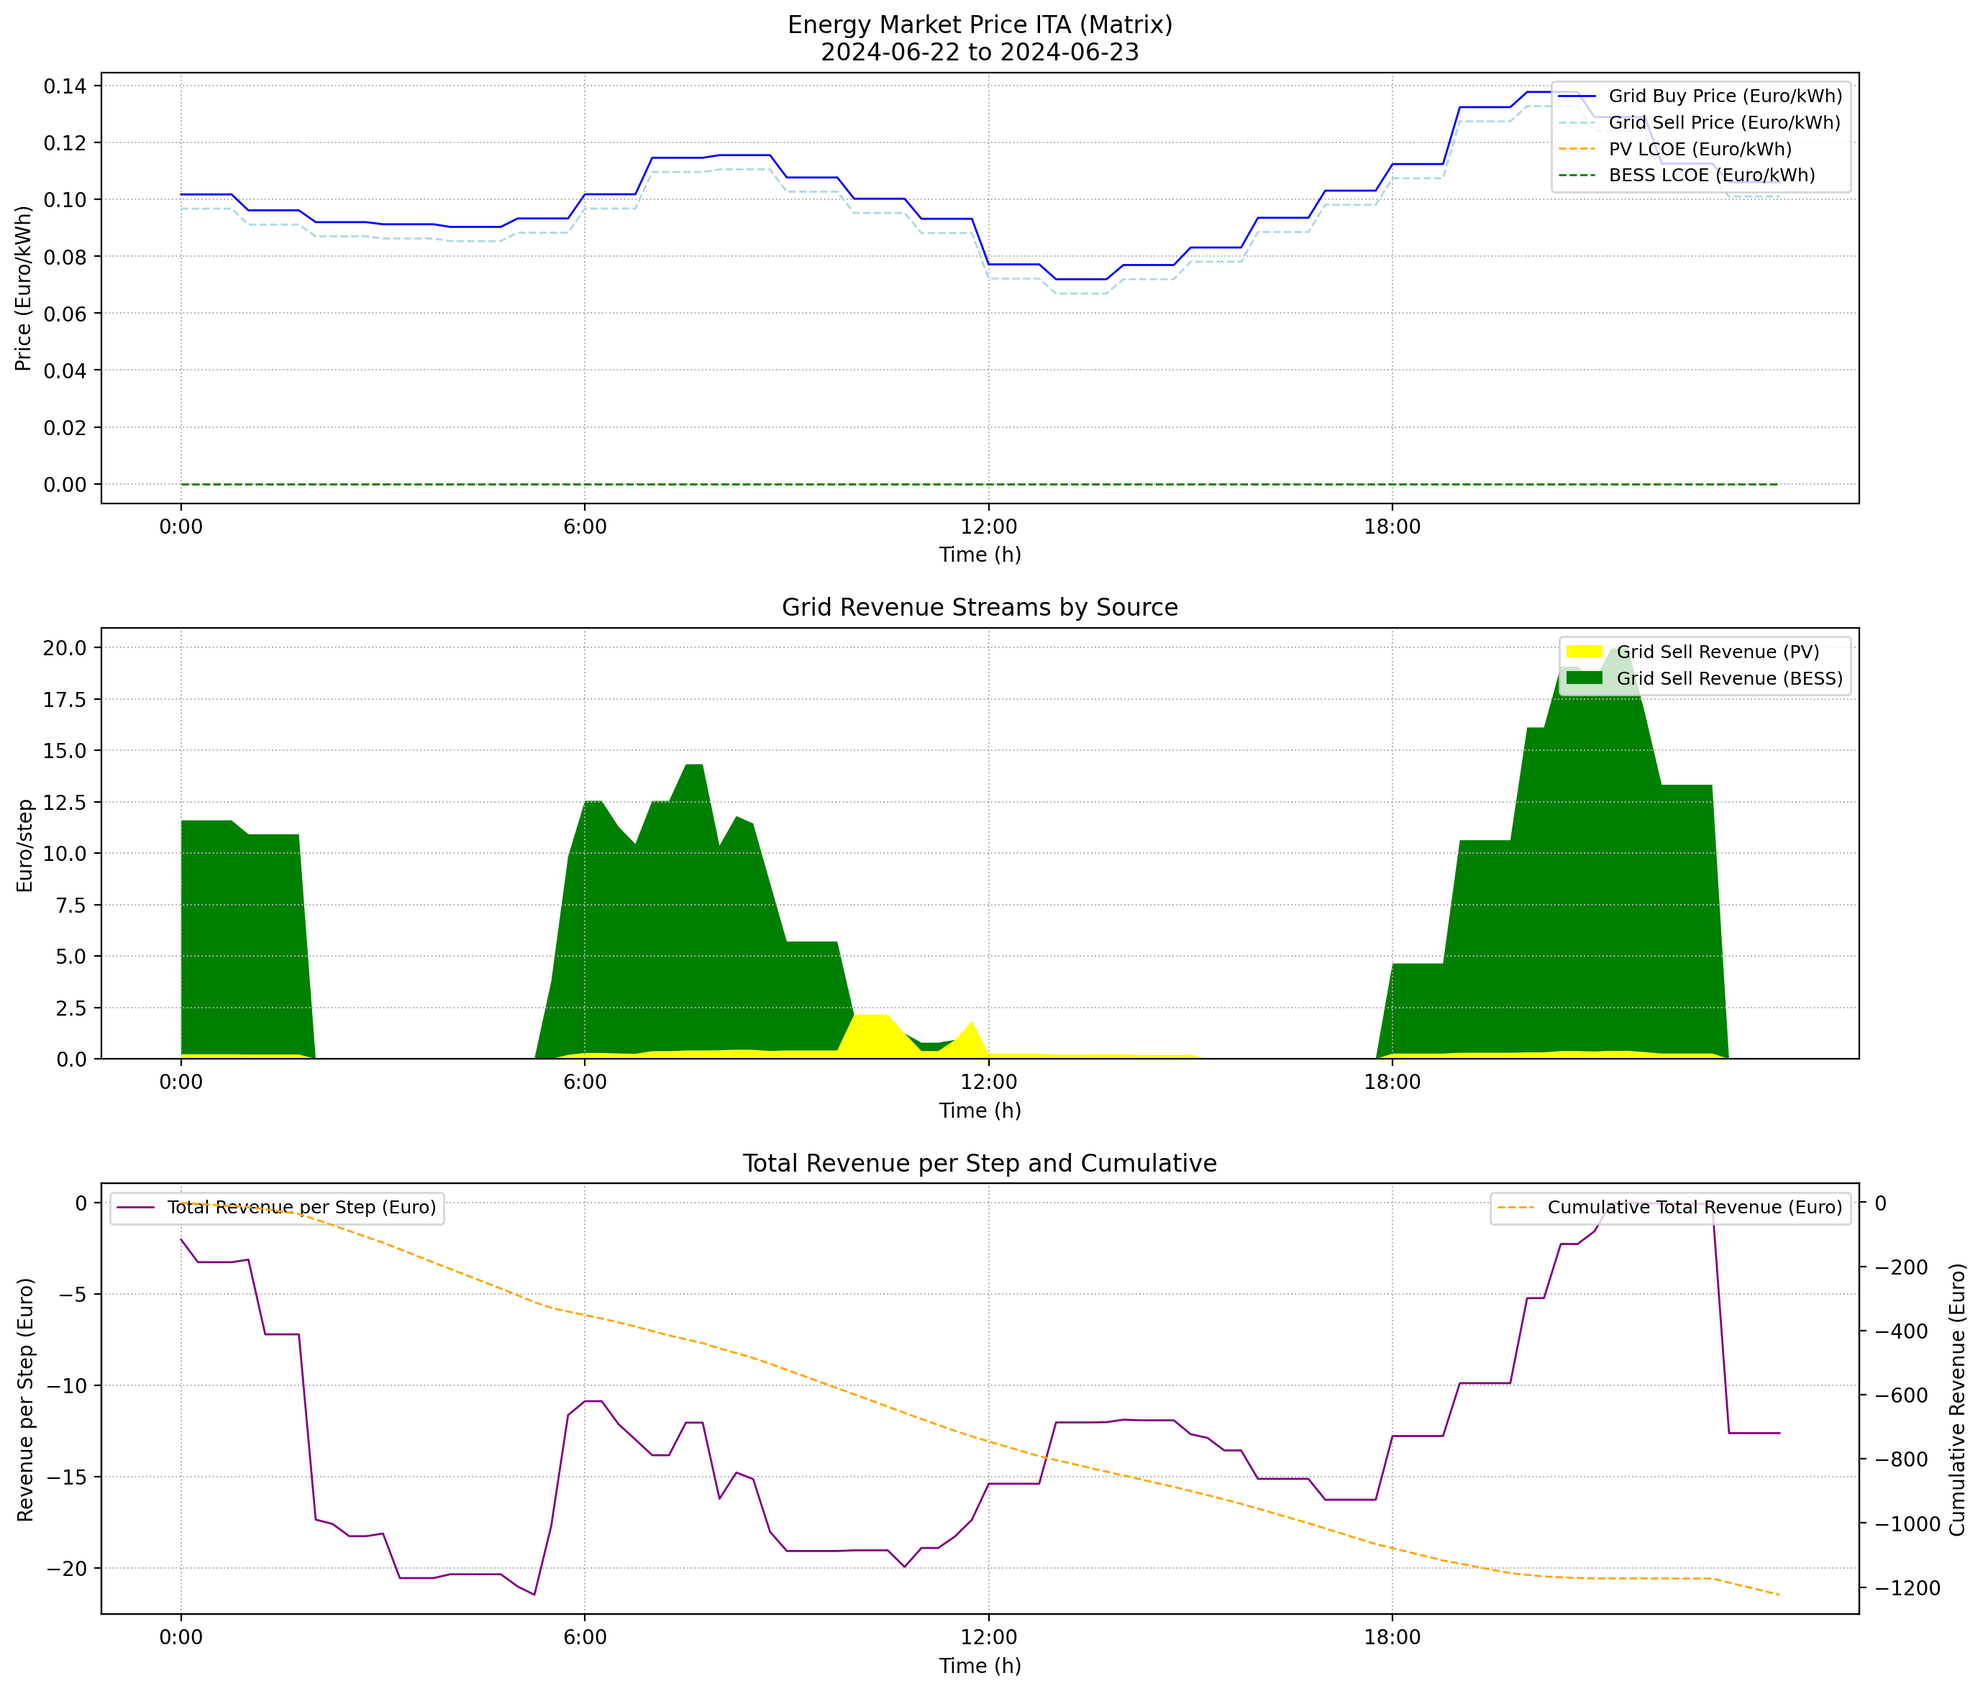
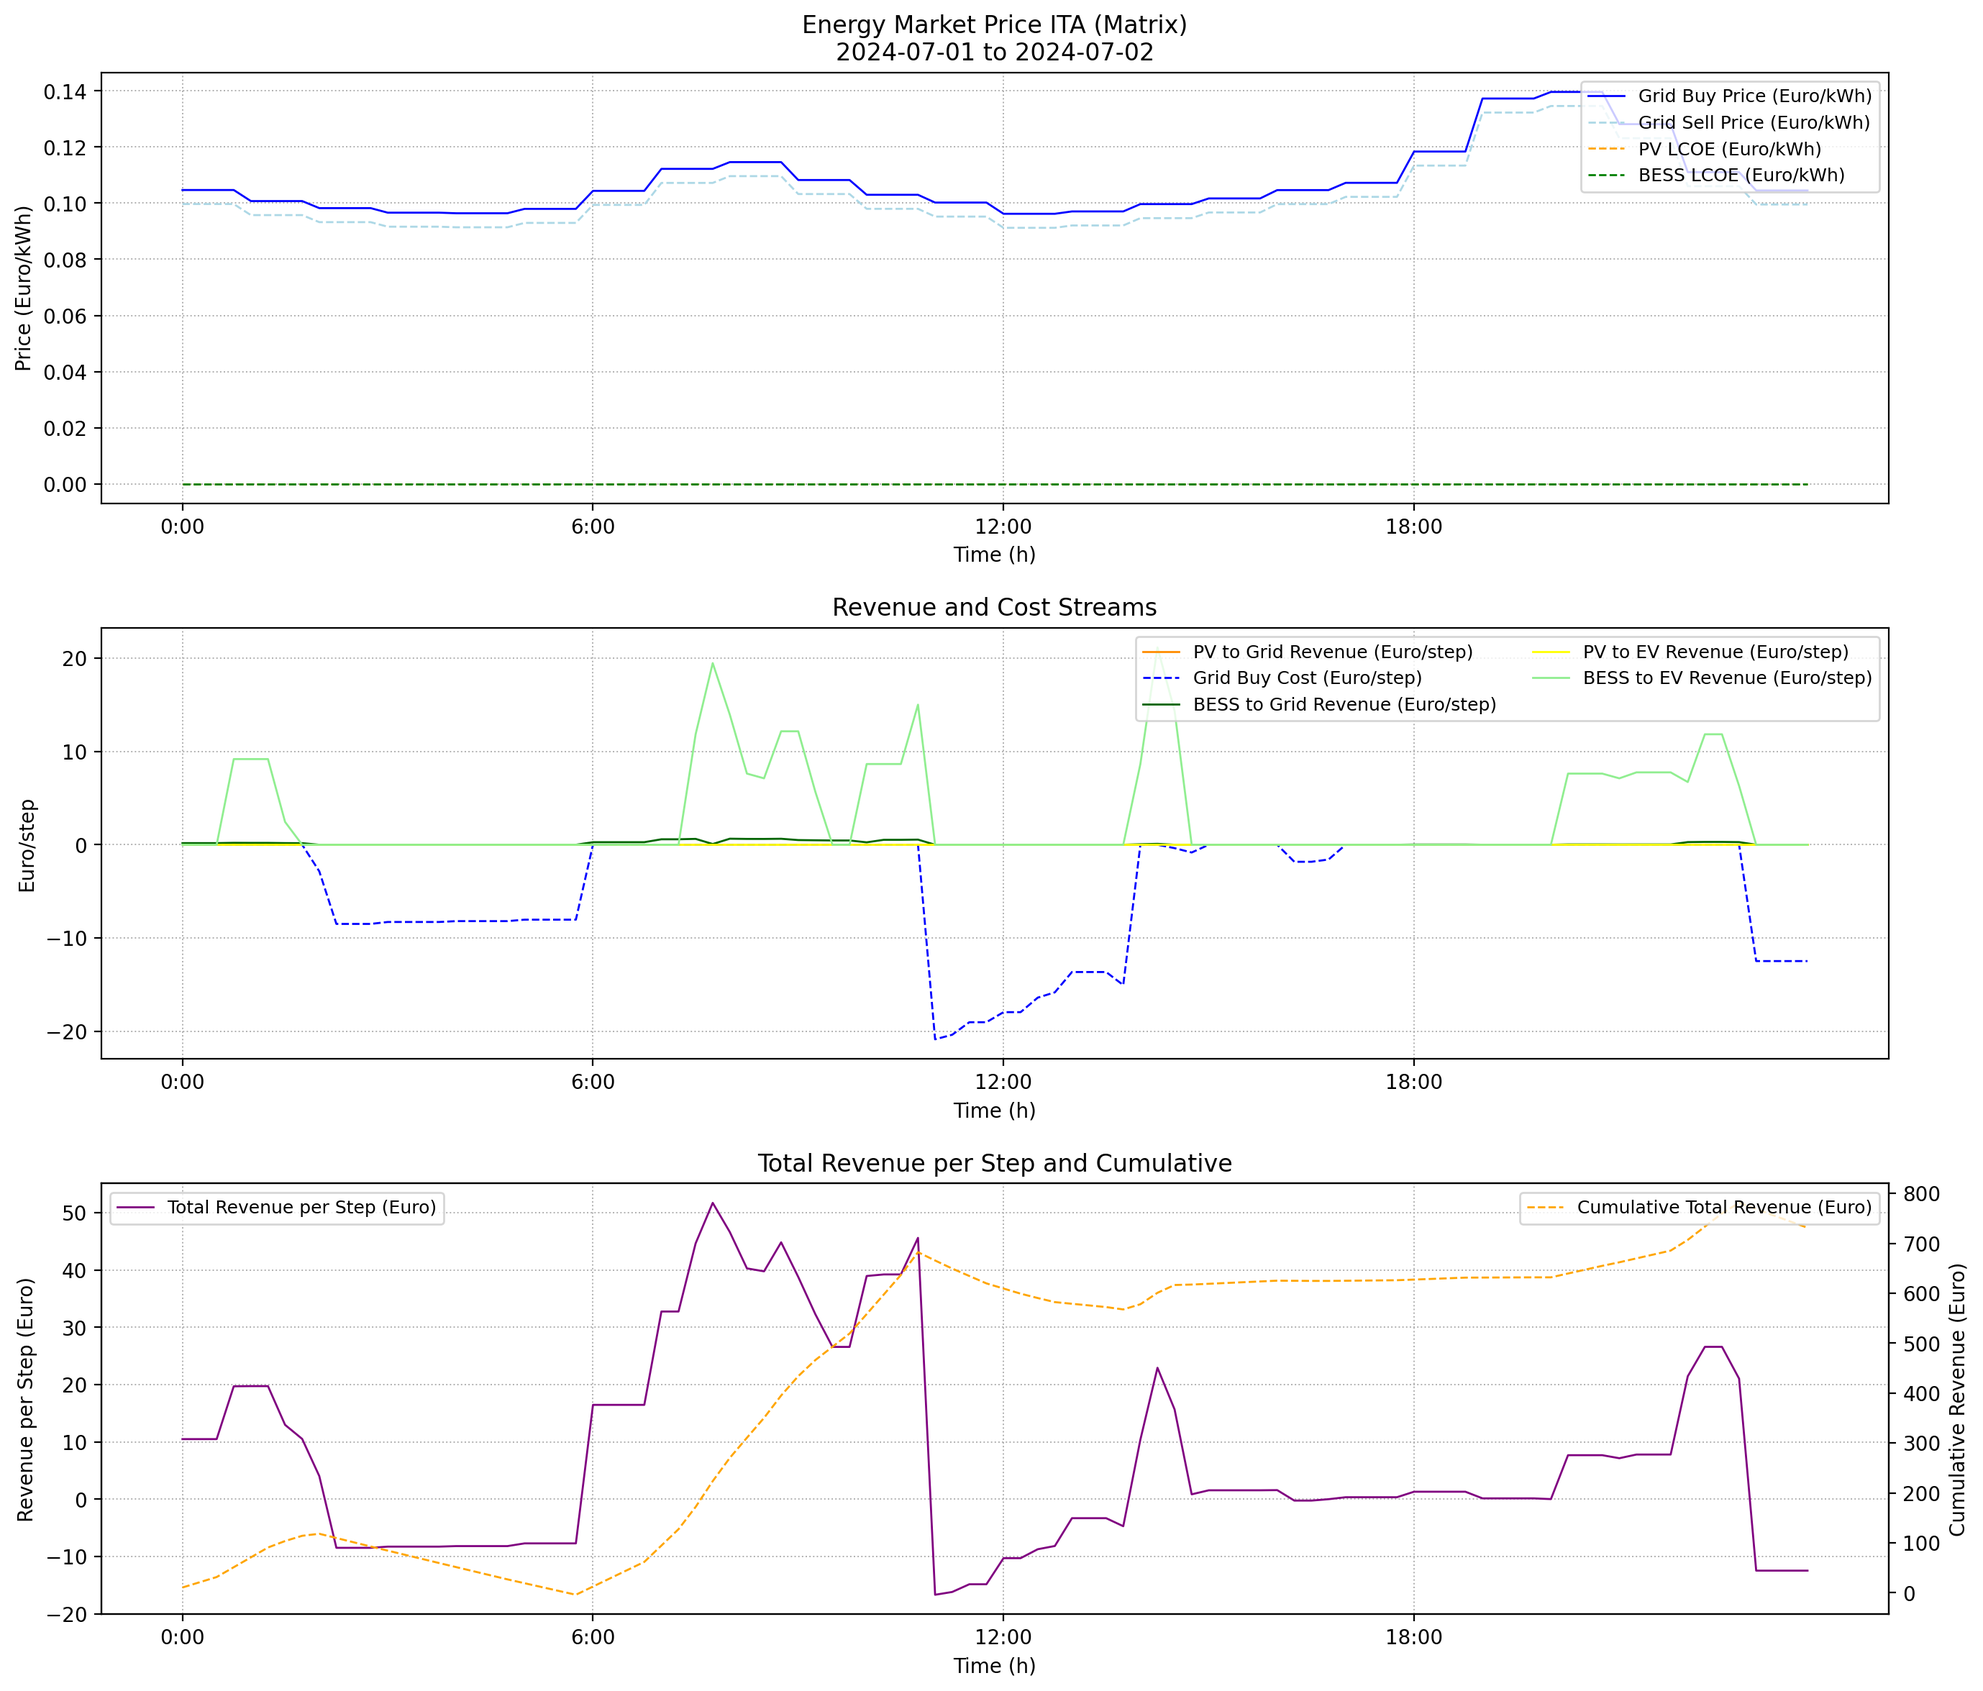
pypsa works

diff --git a/Computing Files/post_process.py b/Computing Files/post_process.py
@@ -3,105 +3,79 @@ import numpy as np
 def compute_revenues(results, data):
     """
     Compute detailed revenue streams and self-sufficiency for the simulation results.
-
-    Args:
-        results (dict): Power flows and slack values.
-        data (dict): Simulation data and parameters.
-
-    Returns:
-        dict: Revenue streams and self-sufficiency ratio.
+    Prioritizes PV for local use to ensure correct splitting and visualization.
     """
-    # Map BESS discharge to consumer, EV, and grid
-    bess_discharge = results.get('P_BESS_discharge', np.zeros_like(data['consumer_demand']))
+    # Direct extractions (add P_PV_gen to results as above)
+    pv_gen = results.get('P_PV_gen', np.zeros_like(data['consumer_demand']))
+    bess_discharge = results.get('P_BESS_discharge', np.zeros_like(pv_gen))
+    bess_charge = results.get('P_BESS_charge', np.zeros_like(pv_gen))
     consumer_demand = data['consumer_demand']
     ev_demand = data['ev_demand']
-    pv_bess_to_consumer = results['P_PV_consumer_vals']
-    pv_bess_to_ev = results['P_PV_ev_vals']
-    pv_bess_to_grid = results['P_PV_grid_vals']
-    # Assign flows to Consumer and EV from PV, BESS, and Grid
-    # Correct allocation of BESS discharge to consumer and EV demand
-    n = len(consumer_demand)
-    pv_to_consumer = np.zeros(n)
-    bess_to_consumer = np.zeros(n)
-    grid_to_consumer = np.zeros(n)
-    pv_to_ev = np.zeros(n)
-    bess_to_ev = np.zeros(n)
-    grid_to_ev = np.zeros(n)
-    for t in range(n):
-        # PV to consumer
-        pv_to_consumer[t] = min(consumer_demand[t], pv_bess_to_consumer[t])
-        # BESS to consumer
-        bess_avail = bess_discharge[t]
-        bess_to_consumer[t] = min(max(consumer_demand[t] - pv_to_consumer[t], 0), bess_avail)
-        bess_avail -= bess_to_consumer[t]
-        # Grid to consumer
-        grid_to_consumer[t] = max(consumer_demand[t] - pv_to_consumer[t] - bess_to_consumer[t], 0)
-        # PV to EV
-        pv_to_ev[t] = min(ev_demand[t], pv_bess_to_ev[t])
-        # BESS to EV
-        bess_to_ev[t] = min(max(ev_demand[t] - pv_to_ev[t], 0), bess_avail)
-        bess_avail -= bess_to_ev[t]
-        # Grid to EV
-        grid_to_ev[t] = max(ev_demand[t] - pv_to_ev[t] - bess_to_ev[t], 0)
-    results['P_PV_consumer_vals'] = pv_to_consumer
-    results['P_BESS_consumer_vals'] = bess_to_consumer
-    results['P_grid_consumer_vals'] = grid_to_consumer
+
+    # Priority 1: PV to demands/charge/grid
+    pv_to_cons = np.minimum(pv_gen, consumer_demand)
+    pv_to_ev = np.minimum(np.maximum(pv_gen - pv_to_cons, 0), ev_demand)
+    pv_to_charge = np.minimum(np.maximum(pv_gen - pv_to_cons - pv_to_ev, 0), bess_charge)
+    pv_to_grid = np.maximum(pv_gen - pv_to_cons - pv_to_ev - pv_to_charge, 0)
+
+    # Priority 2: BESS discharge to remaining demands/grid
+    remaining_cons = np.maximum(consumer_demand - pv_to_cons, 0)
+    remaining_ev = np.maximum(ev_demand - pv_to_ev, 0)
+    bess_to_cons = np.minimum(bess_discharge, remaining_cons)
+    bess_to_ev = np.minimum(np.maximum(bess_discharge - bess_to_cons, 0), remaining_ev)
+    bess_to_grid = np.maximum(bess_discharge - bess_to_cons - bess_to_ev, 0)
+
+    # Grid fills any gaps
+    grid_to_cons = np.maximum(remaining_cons - bess_to_cons, 0)
+    grid_to_ev = np.maximum(remaining_ev - bess_to_ev, 0)
+    calculated_import = grid_to_cons + grid_to_ev
+    calculated_export = pv_to_grid + bess_to_grid
+
+    # Override results for plots (pure PV/BESS separation)
+    results['P_PV_consumer_vals'] = pv_to_cons
     results['P_PV_ev_vals'] = pv_to_ev
+    results['P_PV_grid_vals'] = pv_to_grid
+    results['P_BESS_consumer_vals'] = bess_to_cons
     results['P_BESS_ev_vals'] = bess_to_ev
-    results['P_grid_ev_vals'] = grid_to_ev
-    bess_to_grid = np.maximum(bess_discharge - bess_to_consumer - bess_to_ev, 0)
     results['P_BESS_grid_vals'] = bess_to_grid
-    # Grid sold is PV+BESS to grid
-    results['P_grid_sold'] = results['P_PV_grid_vals'] + bess_to_grid
+    results['P_grid_consumer_vals'] = grid_to_cons
+    results['P_grid_ev_vals'] = grid_to_ev
+    results['P_grid_sold'] = calculated_export  # For top plot
+    results['P_grid_bought'] = calculated_import  # Add if needed for purple line
 
-    # Grid bought is grid import
-    results['P_grid_bought'] = results.get('P_grid_import_vals', np.zeros_like(data['consumer_demand']))
+    # Revenues (per-step arrays; include self-cons savings and EV rev)
+    grid_buy_cost = calculated_import * data['grid_buy_price'] * data['delta_t']
+    grid_sell_revenue = calculated_export * data['grid_sell_price'] * data['delta_t']
+    cons_savings = (pv_to_cons + bess_to_cons) * data['pi_consumer'] * data['delta_t']  # Avoided grid buy for consumer
+    ev_rev = (pv_to_ev + bess_to_ev) * data['pi_ev'] * data['delta_t']  # Revenue from renewable to EV
+    pv_to_charge_cost = pv_to_charge * data['lcoe_pv'] * data['delta_t']  # Charging cost (if LCOE>0)
 
-    # Grid sold energy
-    grid_sell_revenue = results['P_grid_sold'] * data['grid_sell_price'] * data['delta_t']
-    grid_buy_cost = results['P_grid_bought'] * data['grid_buy_price'] * data['delta_t']
-
-    # Consumer and EV revenue (if applicable)
-    pv_to_consumer_rev = results['P_PV_consumer_vals'] * data['lcoe_pv'] * data['delta_t']
-    pv_to_ev_rev = results['P_PV_ev_vals'] * data['lcoe_pv'] * data['delta_t']
-
-    total_net_per_step = grid_sell_revenue - grid_buy_cost
-    total_revenue = np.sum(total_net_per_step)
+    total_net_per_step = grid_sell_revenue - grid_buy_cost + cons_savings + ev_rev - pv_to_charge_cost
 
     revenues = {
         'grid_sell_revenue': grid_sell_revenue,
         'grid_buy_cost': grid_buy_cost,
-        'pv_to_consumer_rev': pv_to_consumer_rev,
-        'pv_to_ev_rev': pv_to_ev_rev,
+        'pv_to_consumer_rev': pv_to_cons * data['pi_consumer'] * data['delta_t'],
+        'bess_to_consumer_rev': bess_to_cons * data['pi_consumer'] * data['delta_t'],
+        'pv_to_ev_rev': pv_to_ev * data['pi_ev'] * data['delta_t'],
+        'bess_to_ev_rev': bess_to_ev * data['pi_ev'] * data['delta_t'],
+        'pv_to_grid_rev': pv_to_grid * data['grid_sell_price'] * data['delta_t'],
+        'bess_to_grid_rev': bess_to_grid * data['grid_sell_price'] * data['delta_t'],
+        'pv_to_bess_cost': -pv_to_charge_cost,  # As positive cost
         'total_net_per_step': total_net_per_step,
-        'total_revenue': total_revenue
+        'total_revenue': np.sum(total_net_per_step)
     }
-    
-    # Calculate self-sufficiency ratio (unitless percentage) - excluding EV demand
-    total_consumer_demand = np.sum(data['consumer_demand']) * data['delta_t']  # Consumer demand only
-    total_renewable_to_cons = np.sum(results['P_PV_consumer_vals'] + results['P_BESS_consumer_vals']) * data['delta_t']
-    self_sufficiency = (total_renewable_to_cons / total_consumer_demand * 100) if total_consumer_demand > 0 else 0
-    
-    # Calculate EV renewable service level
-    total_ev_demand = np.sum(data['ev_demand']) * data['delta_t']
-    renewable_to_ev = np.sum(results['P_PV_ev_vals'] + results['P_BESS_ev_vals']) * data['delta_t']
-    ev_renewable_share = (renewable_to_ev / total_ev_demand * 100) if total_ev_demand > 0 else 0
-    revenues['ev_renewable_share'] = ev_renewable_share  # Add to revenues dict
-    
-    revenues['self_sufficiency'] = self_sufficiency  # Add to revenues dict
-    
-    # Calculate per-timestep PV and BESS grid export shares
-    pv_grid_export = results['P_PV_grid_vals']
-    bess_grid_export = results['P_BESS_grid_vals']
-    results['P_grid_export_pv'] = pv_grid_export
-    results['P_grid_export_bess'] = bess_grid_export
-    
-    # Calculate per-timestep grid sell revenue from PV and BESS
-    grid_sell_revenue_pv = results['P_PV_grid_vals'] * data['grid_sell_price'] * data['delta_t']
-    grid_sell_revenue_bess = results['P_BESS_grid_vals'] * data['grid_sell_price'] * data['delta_t']
-    revenues['grid_sell_revenue_pv'] = grid_sell_revenue_pv
-    revenues['grid_sell_revenue_bess'] = grid_sell_revenue_bess
-    
+
+    # Self-sufficiency (consumer only, now credits PV properly)
+    total_consumer_demand = np.sum(consumer_demand) * data['delta_t']
+    total_renewable_to_cons = np.sum(pv_to_cons + bess_to_cons) * data['delta_t']
+    revenues['self_sufficiency'] = (total_renewable_to_cons / total_consumer_demand * 100) if total_consumer_demand > 0 else 0
+
+    # EV renewable share
+    total_ev_demand = np.sum(ev_demand) * data['delta_t']
+    renewable_to_ev = np.sum(pv_to_ev + bess_to_ev) * data['delta_t']
+    revenues['ev_renewable_share'] = (renewable_to_ev / total_ev_demand * 100) if total_ev_demand > 0 else 0
+
     return revenues
 
 def print_results(revenues, results, data):

diff --git a/Computing Files/plots.py b/Computing Files/plots.py
@@ -102,19 +102,21 @@ def plot_financials(revenues, data, save_dir=None):
     for d in range(1, 1):  # No dividers for single day
         plt.axvline(d * 24, color='gray', linestyle='--', linewidth=0.7)
 
-    # Subplot 2: Grid Revenue Streams colored by PV and BESS share
+    # Subplot 2: Revenue and Cost Streams (use new separated terms)
     plt.subplot(3, 1, 2)
-    plt.stackplot(
-        data['time_steps'],
-        revenues.get('grid_sell_revenue_pv', np.zeros_like(data['time_steps'])),
-        revenues.get('grid_sell_revenue_bess', np.zeros_like(data['time_steps'])),
-        labels=['Grid Sell Revenue (PV)', 'Grid Sell Revenue (BESS)'],
-        colors=['yellow', 'green']
-    )
+    #plt.plot(data['time_steps'], revenues.get('pv_to_consumer_rev', np.zeros_like(data['time_steps'])), label='PV to Consumer Revenue (Euro/step)', color='orange', linewidth=1)
+    plt.plot(data['time_steps'], revenues.get('pv_to_grid_rev', np.zeros_like(data['time_steps'])), label='PV to Grid Revenue (Euro/step)', color='darkorange', linewidth=1)
+    #plt.plot(data['time_steps'], revenues.get('pv_to_bess_cost', np.zeros_like(data['time_steps'])), label='PV to BESS Cost (Euro/step)', color='gold', linewidth=1)
+    #plt.plot(data['time_steps'], revenues.get('bess_to_consumer_rev', np.zeros_like(data['time_steps'])), label='BESS to Consumer Revenue (Euro/step)', color='green', linewidth=1)
+    plt.plot(data['time_steps'], -revenues.get('grid_buy_cost', np.zeros_like(data['time_steps'])), label='Grid Buy Cost (Euro/step)', color='blue', linewidth=1, linestyle='--')
+    plt.plot(data['time_steps'], revenues.get('bess_to_grid_rev', np.zeros_like(data['time_steps'])), label='BESS to Grid Revenue (Euro/step)', color='darkgreen', linewidth=1)
+    plt.plot(data['time_steps'], revenues.get('pv_to_ev_rev', np.zeros_like(data['time_steps'])), label='PV to EV Revenue (Euro/step)', color='yellow', linewidth=1)
+    plt.plot(data['time_steps'], revenues.get('bess_to_ev_rev', np.zeros_like(data['time_steps'])), label='BESS to EV Revenue (Euro/step)', color='lightgreen', linewidth=1)
+    # Add more if needed, e.g., grid_buy_cost as negative
     plt.xlabel('Time (h)')
     plt.ylabel('Euro/step')
-    plt.title('Grid Revenue Streams by Source')
-    plt.legend(loc='upper right', fontsize=9)
+    plt.title('Revenue and Cost Streams')
+    plt.legend(loc='upper right', fontsize=9, ncol=2)
     plt.grid(True, linestyle=':', linewidth=0.7)
     plt.xticks(np.arange(0, 24, 6), [f"{h}:00" for h in np.arange(0, 24, 6)])
     for d in range(1, 1):  # No dividers for single day

diff --git a/Computing Files/mpc.py b/Computing Files/mpc.py
@@ -26,7 +26,7 @@ class MPC:
         self.bess_percent_limit = params['BESS_limit']
         self.converter_efficiency = params.get('CONVERTER_EFFICIENCY', 0.98)
 
-    def predict(self, soc, pv_forecast, demand_forecast, ev_forecast, buy_forecast, sell_forecast, lcoe_pv, pi_ev, horizon):
+    def predict(self, soc, pv_forecast, demand_forecast, ev_forecast, buy_forecast, sell_forecast, lcoe_pv, pi_ev, pi_consumer, horizon):
         # Debug: print input parameters
         print("PV forecast (first 5):", pv_forecast[:5])
         print("BESS power limit:", self.bess_power_limit)
@@ -88,9 +88,9 @@ class MPC:
         n.add("Generator", "Grid_Source", bus="Grid", p_nom=max_grid_import, marginal_cost=0)
         n.generators_t.marginal_cost["Grid_Source"] = pd.Series(buy_forecast, index=n.snapshots)
 
-        # Loads (AC bus) - add marginal benefit only for EV
-        n.add("Load", "Consumer", bus="AC", p_set=0, marginal_cost=0)  # Zero marginal benefit for consumer (owner's demand)
-        n.add("Load", "EV", bus="AC", p_set=0, marginal_cost=-pi_ev)  # Negative cost for EV supply (revenue)
+        # Loads with incentive EV at pi_ev, cons at pi_consumer
+        n.add("Load", "Consumer", bus="AC", p_set=0, marginal_cost=-pi_consumer)
+        n.add("Load", "EV", bus="AC", p_set=0, marginal_cost=-pi_ev)
         n.loads_t.p_set.loc[:, "Consumer"] = demand_forecast
         n.loads_t.p_set.loc[:, "EV"] = ev_forecast
 

diff --git a/Computing Files/main_Optimization.py b/Computing Files/main_Optimization.py
@@ -51,6 +51,7 @@ P_grid_consumer_vals = np.zeros(n_steps)
 P_grid_ev_vals = np.zeros(n_steps)
 P_grid_import_vals = np.zeros(n_steps)
 P_grid_export_vals = np.zeros(n_steps)
+P_PV_gen = np.zeros(n_steps)  # Dedicated array for PV generation
 
 # Define forecast padding helper
 def pad_to_horizon(arr, horizon, pad_value=None):
@@ -71,7 +72,7 @@ for t in range(n_steps):
 
     control = mpc_controller.predict(
         soc_actual[t], pv_forecast, demand_forecast, ev_forecast,
-        buy_forecast, sell_forecast, data['lcoe_pv'], data['pi_ev'], horizon
+        buy_forecast, sell_forecast, data['lcoe_pv'], data['pi_ev'], data['pi_consumer'], horizon
     )
 
     P_PV_consumer_vals[t] = control['pv_bess_to_consumer']
@@ -84,6 +85,7 @@ for t in range(n_steps):
     P_grid_import_vals[t] = control['P_grid_import']
     P_grid_export_vals[t] = control['P_grid_export']
     soc_actual[t + 1] = control['SOC_next']
+    P_PV_gen[t] = control['P_PV_gen']  # Track PV generation
 
 # Compile results for post-processing
 results = {
@@ -96,7 +98,8 @@ results = {
     'P_grid_ev_vals': P_grid_ev_vals,
     'P_grid_import_vals': P_grid_import_vals,
     'P_grid_export_vals': P_grid_export_vals,
-    'SOC_vals': soc_actual
+    'SOC_vals': soc_actual,
+    'P_PV_gen': P_PV_gen
 }
 revenues = post_process.compute_revenues(results, data)
 post_process.print_results(revenues, results, data)
